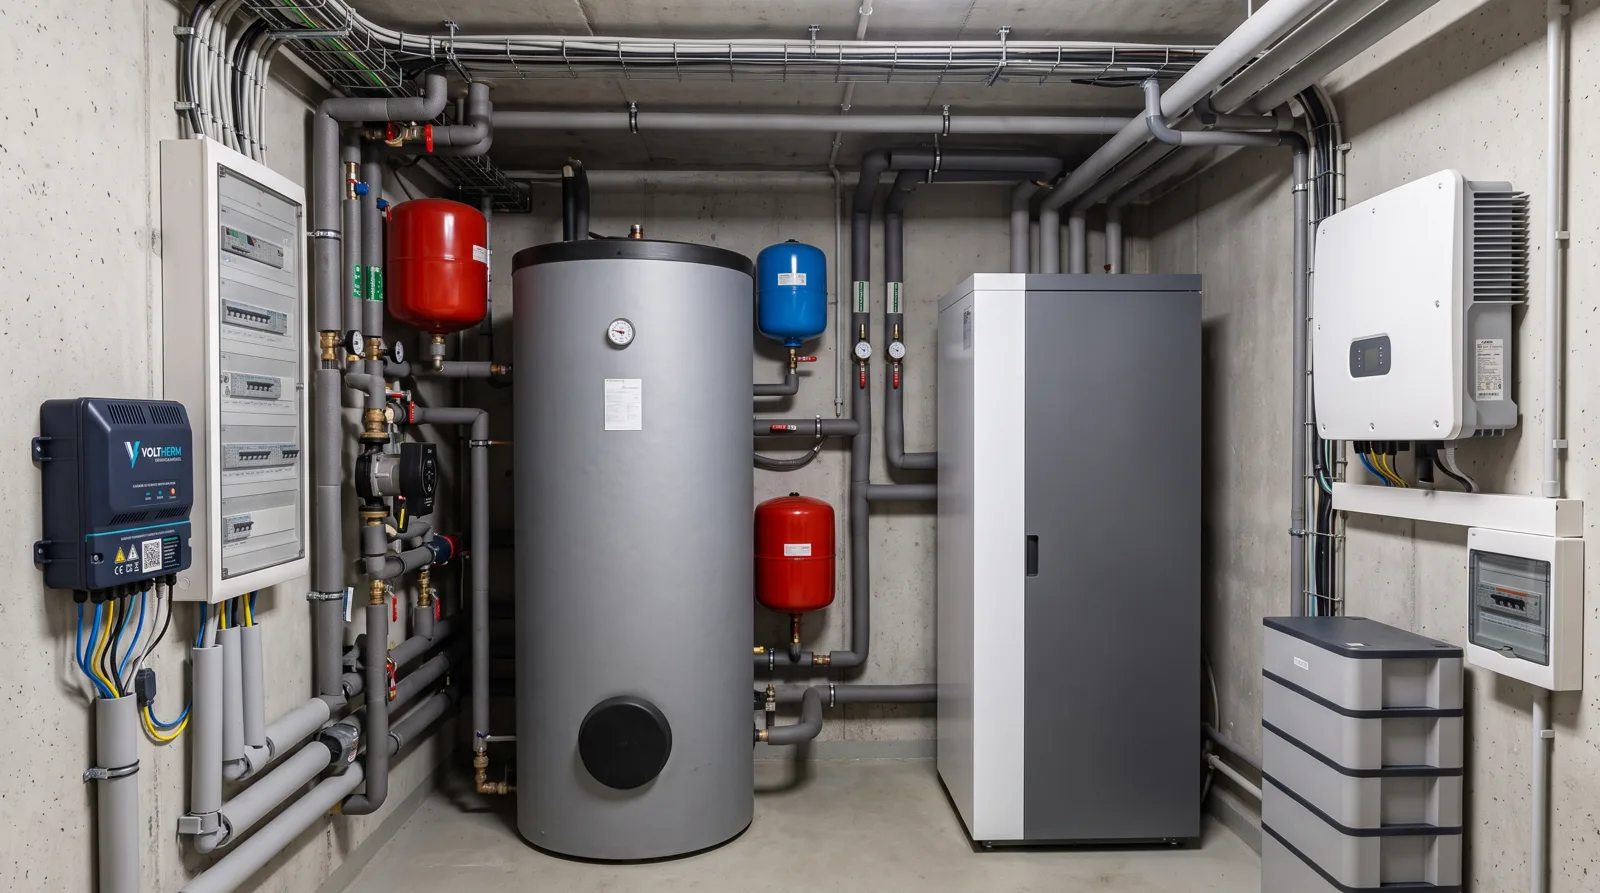
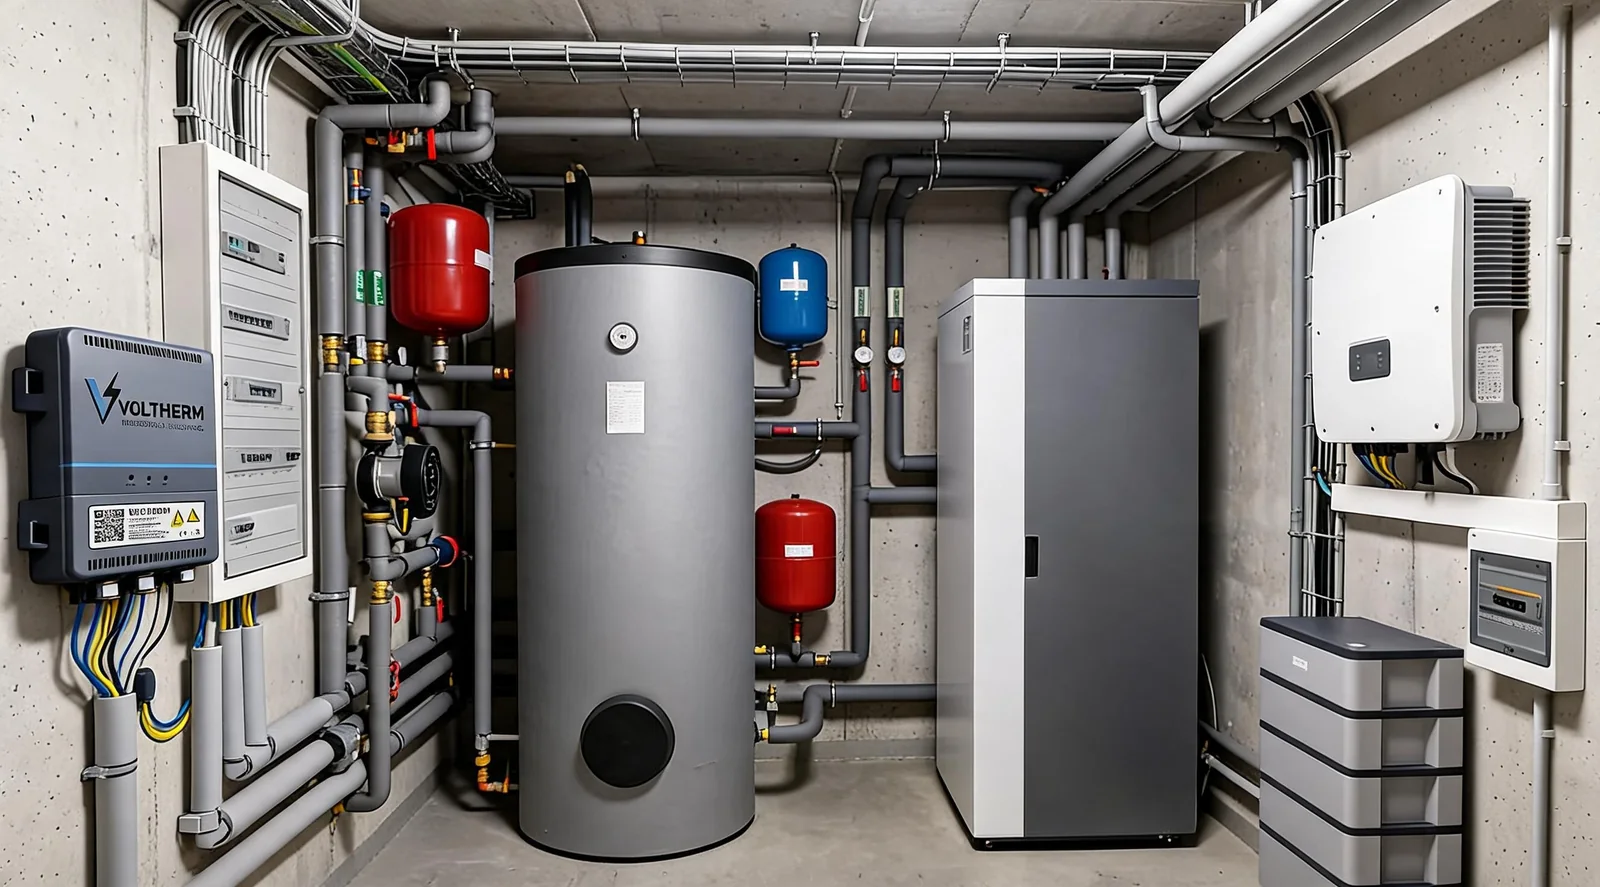
Hub: neues Technikraum-Bild mit aktuellem Gehäuse
Claude-Session: https://claude.ai/code/session_01JbpKA8uWmAvHgrBxBA9cM1

diff --git a/index.html b/index.html
@@ -245,7 +245,7 @@
   </div>
   <div class="wrap">
     <figure class="hub-room">
-      <img src="assets/hub-technikraum.webp" width="1600" height="893" alt="VOLTHERM Hub neben dem Zählerschrank im Technikraum mit Wärmepumpe, Speicher und Wechselrichter" loading="lazy">
+      <img src="assets/hub-technikraum.webp" width="1600" height="887" alt="VOLTHERM Hub neben dem Zählerschrank im Technikraum mit Wärmepumpe, Speicher und Wechselrichter" loading="lazy">
       <figcaption>Visualisierung. Das Seriengerät kann im Detail abweichen.</figcaption>
     </figure>
   </div>
